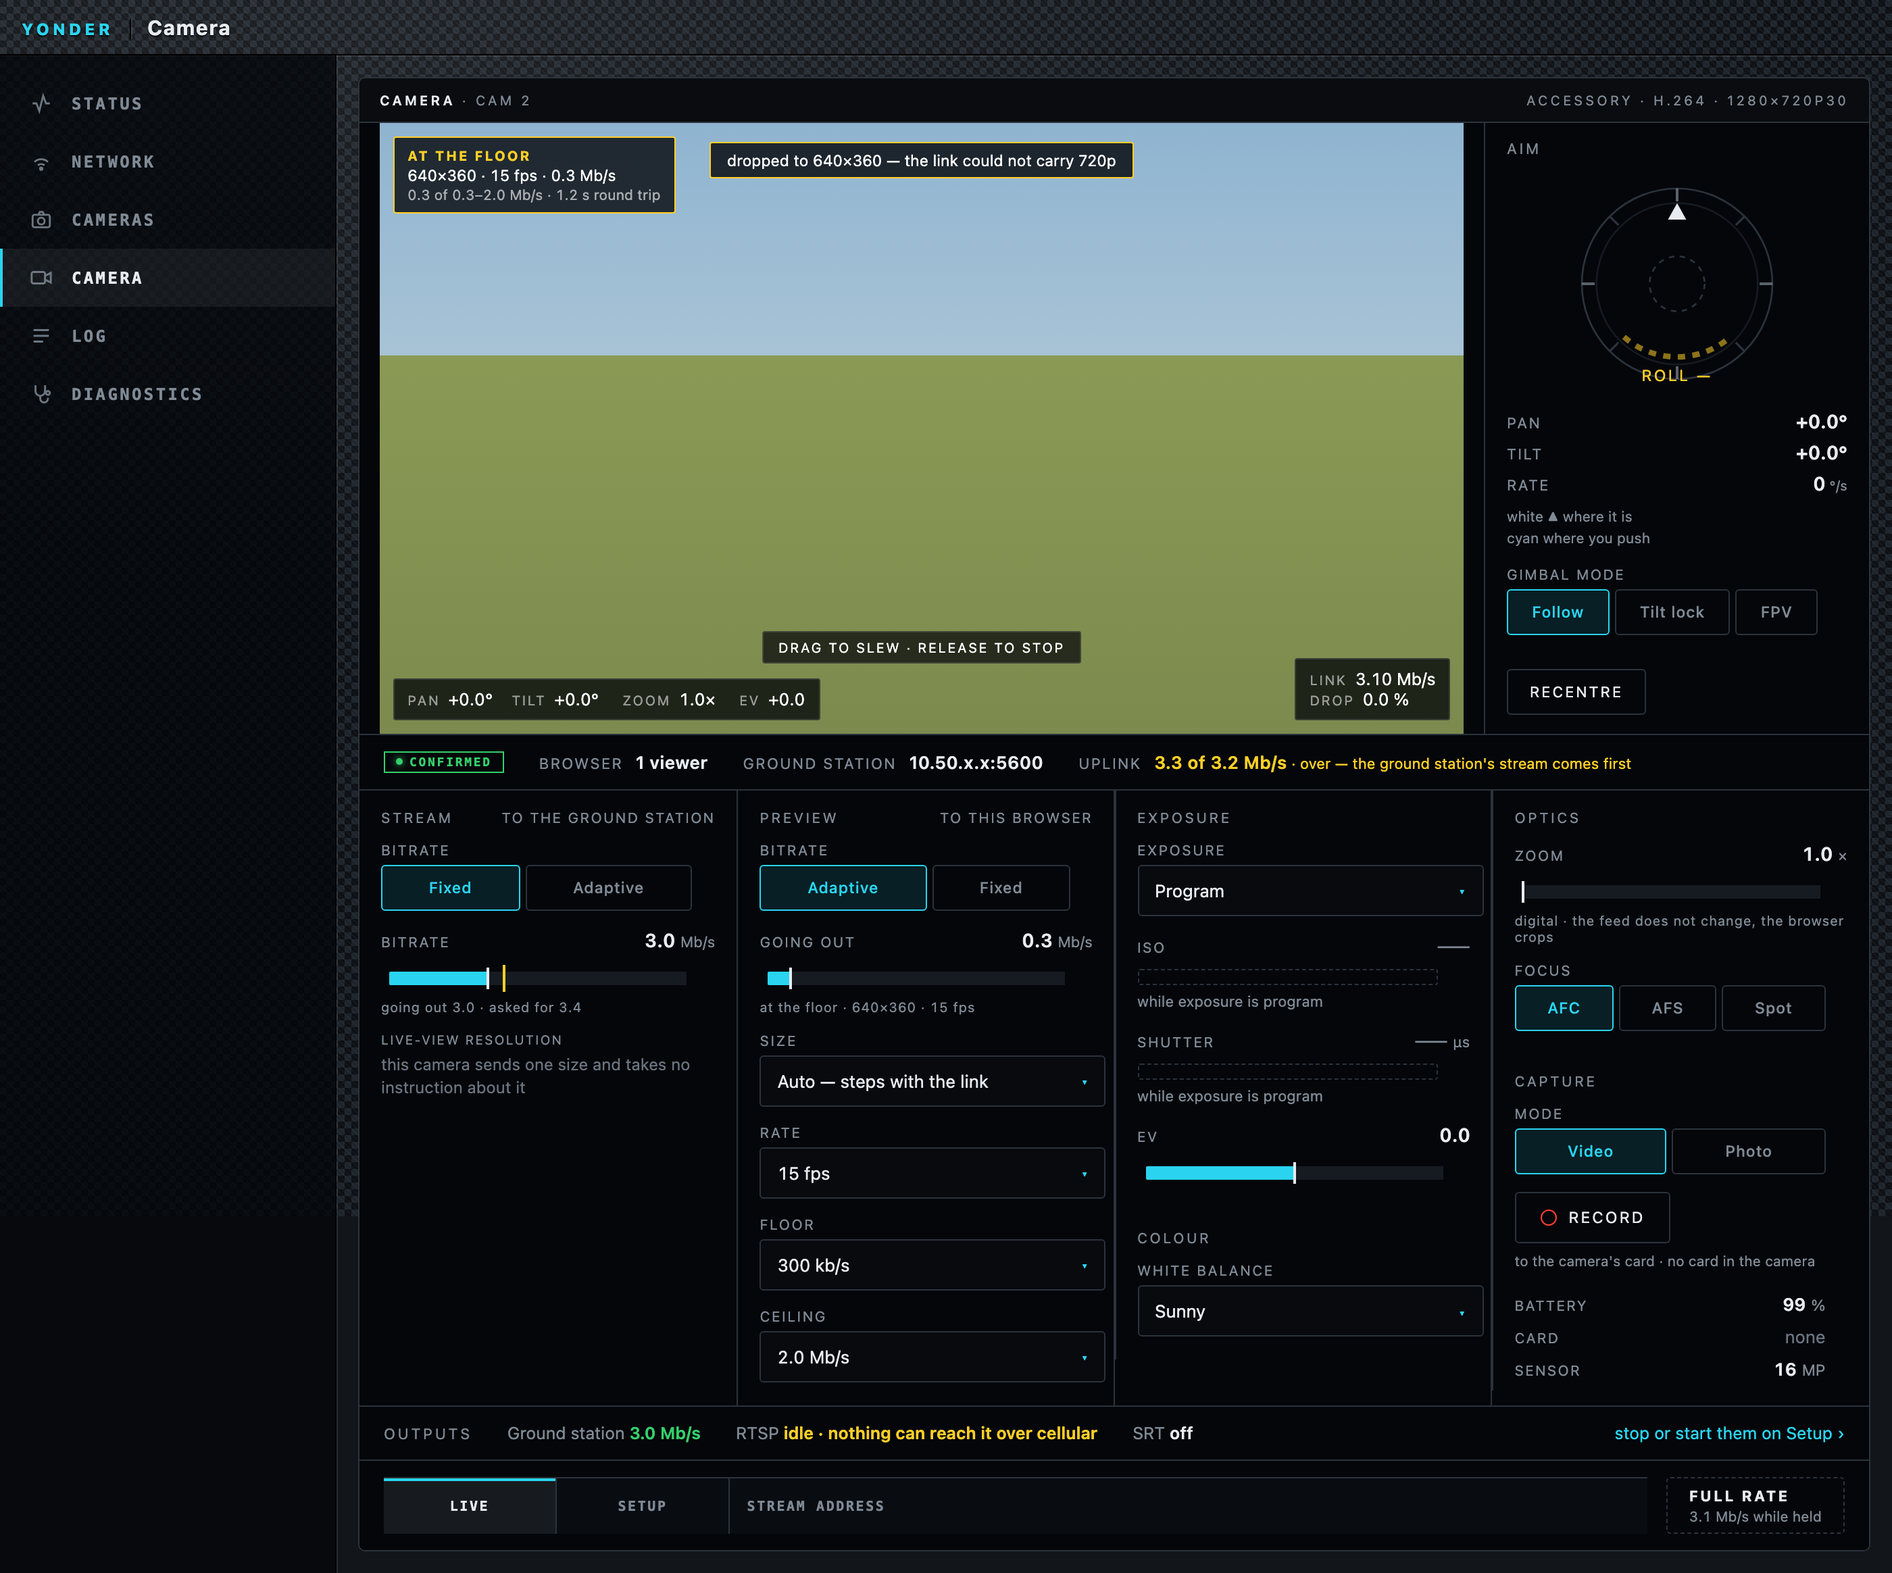
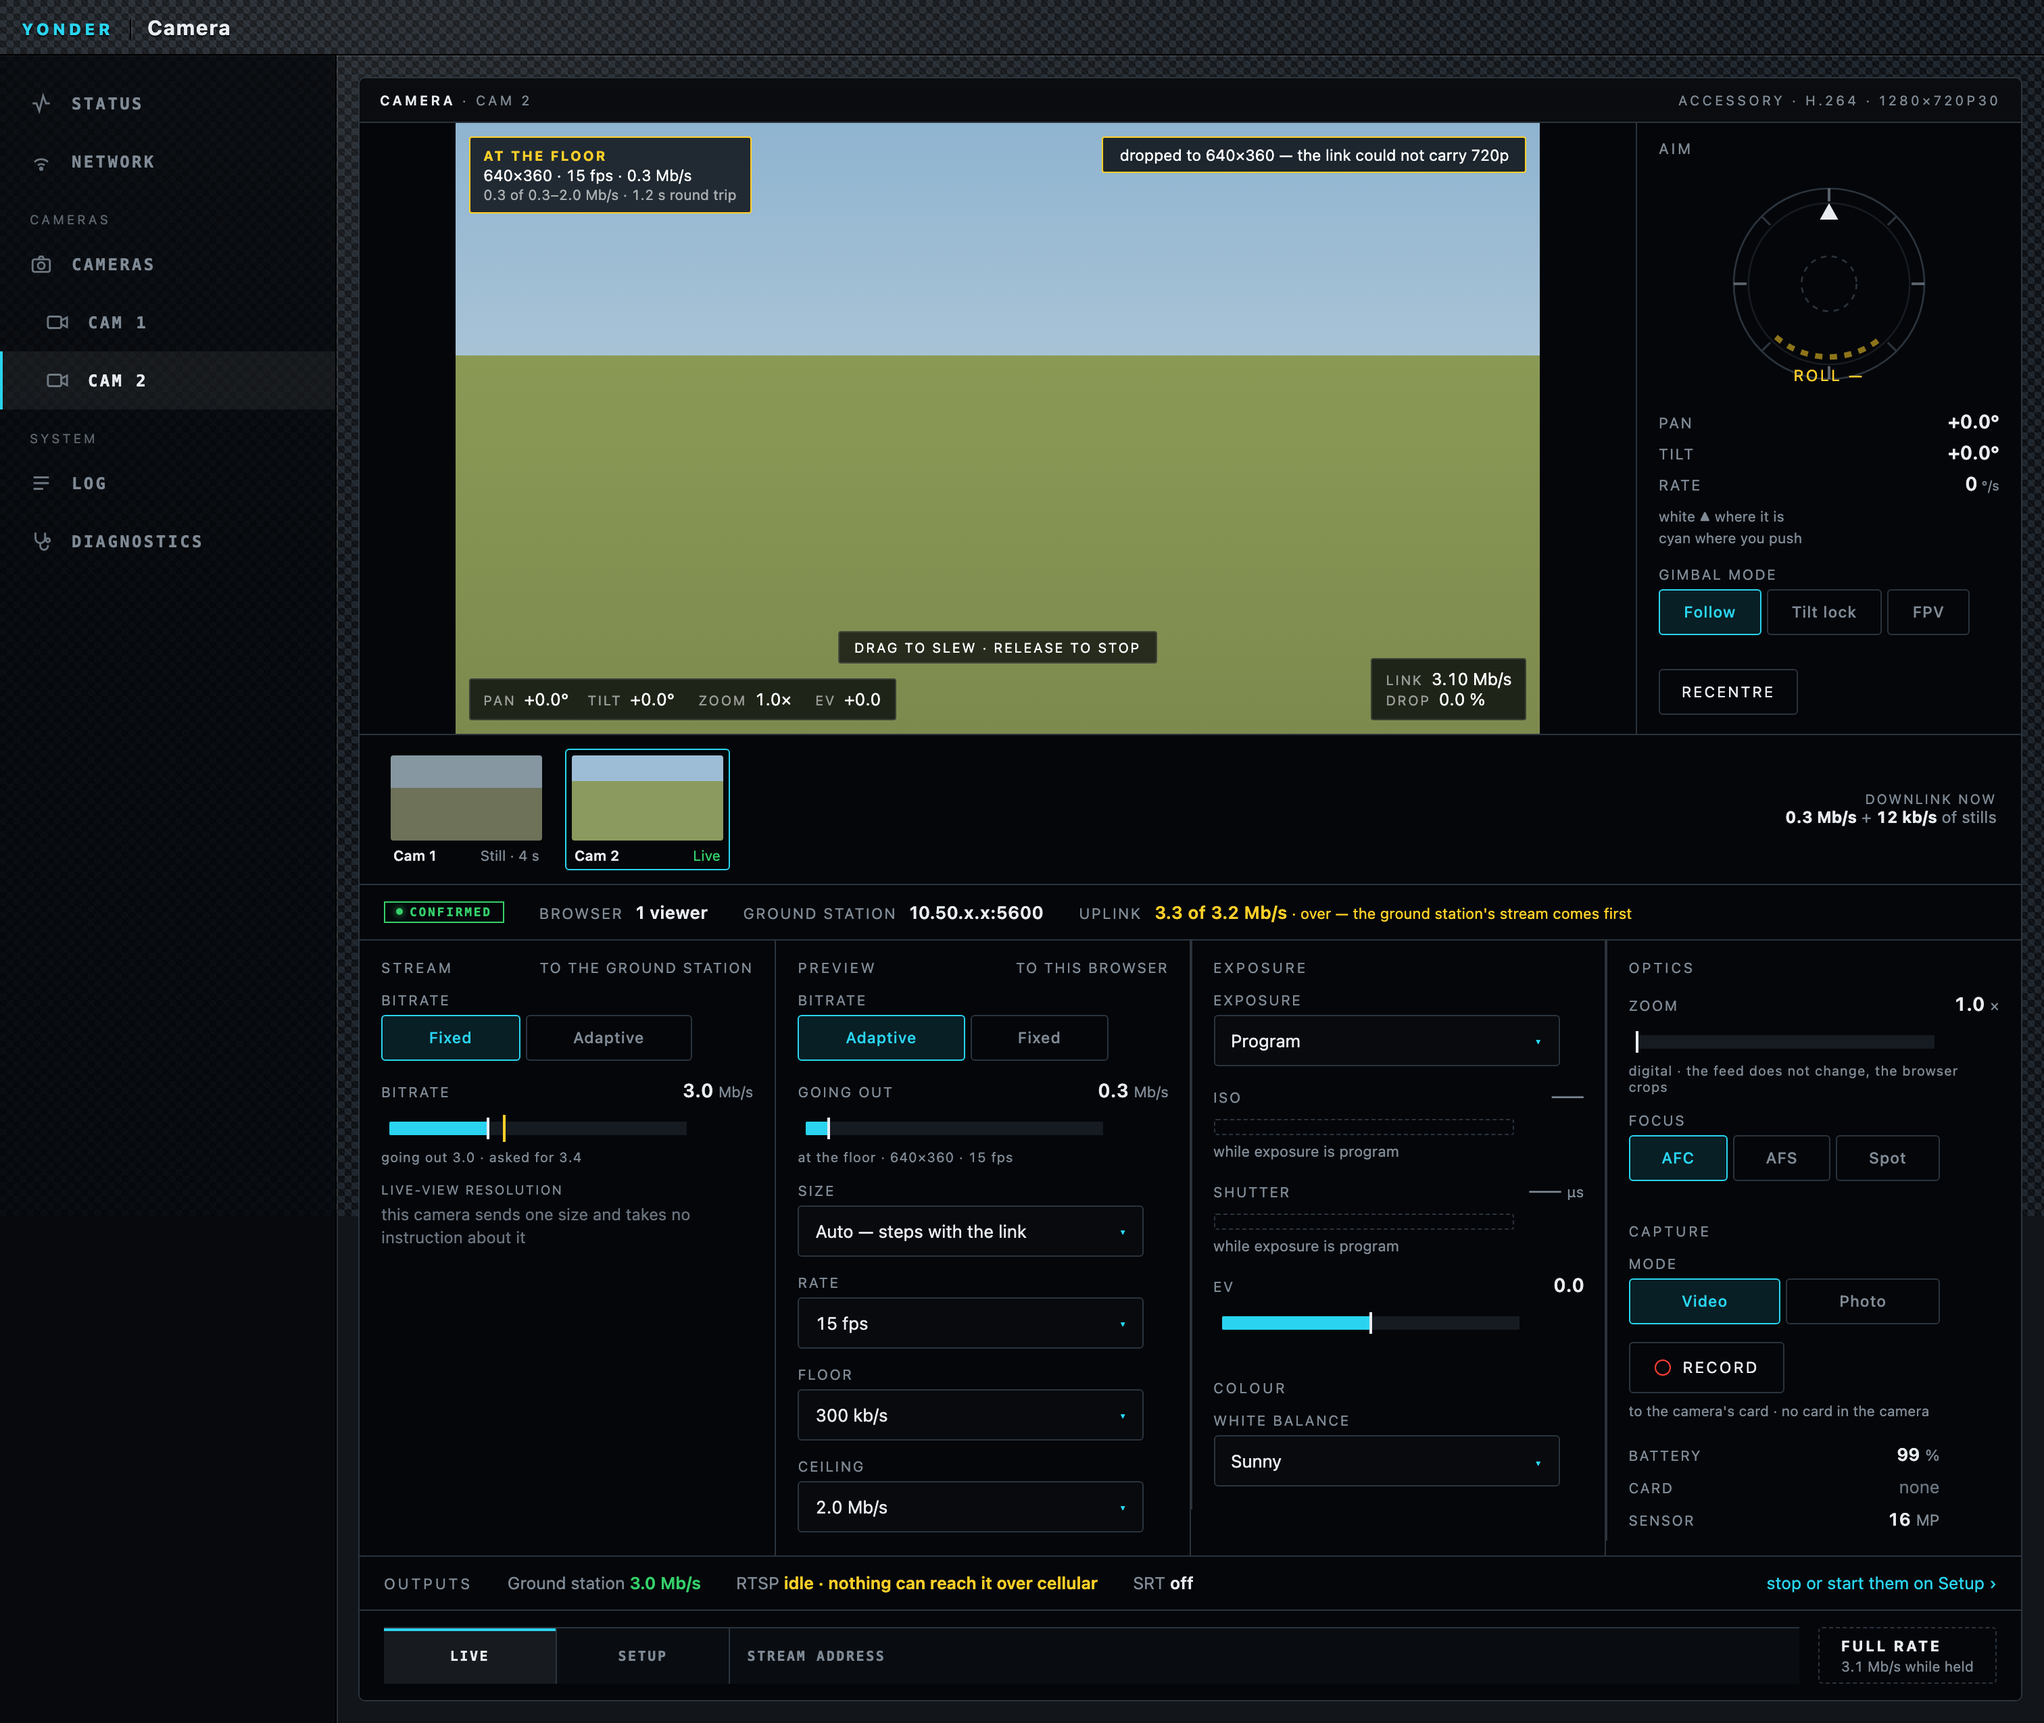
docs(console): one page per camera, and the strip that shows the others
Navigation is built from detected hardware: a Cameras section in the
sidebar with one entry per camera the probe found. Under the picture, the
other cameras as periodic stills with the cost of all of it stated, and one
press to switch — multi-camera-v2.html option 1, R-UI-03.

The strip's uplink capacity now follows the link rather than sitting at a
constant, so an adaptive preview on a healthy link no longer reads as
oversubscribed (R-VID-11).

diff --git a/docs/console/design/instrument-library/gallery/main.js b/docs/console/design/instrument-library/gallery/main.js
@@ -35,8 +35,9 @@ const REJECTED = [
 const App = defineComponent({
   setup () {
     const theme = ref("night");
-    const camera = ref("elp");
-    const page = ref("camera-live");
+    const page = ref("camera:elp");
+    const setup = ref(false);
+    const camera = { get value () { return page.value.startsWith("camera:") ? page.value.slice(7) : "elp"; } };
     const unproven = ref(false);
     const link = ref("good");
     const setTheme = (t) => {
@@ -51,12 +52,11 @@ const App = defineComponent({
       document.documentElement.setAttribute("data-theme", t);
     };
     setTheme("night");
-    window.addEventListener("yonder-go", (e) => { page.value = e.detail; });
+    window.addEventListener("yonder-mode", (e) => { setup.value = e.detail === "setup"; });
 
-    const TITLES = {
-      "cameras": "Cameras", "camera-live": "Camera", "camera-setup": "Camera",
-      "status": "Status", "network": "Network", "log": "Log", "diagnostics": "Diagnostics",
-    };
+    const CAMS = [{ id: "elp", name: "Cam 1" }, { id: "pocket2", name: "Cam 2" }];
+    const TITLES = { cameras: "Cameras", status: "Status", network: "Network", log: "Log", diagnostics: "Diagnostics" };
+    const title = () => page.value.startsWith("camera:") ? "Camera" : (TITLES[page.value] ?? "");
 
     return () => h("div", { class: "g-root" }, [
       h("div", { class: "g-bar" }, [
@@ -64,16 +64,8 @@ const App = defineComponent({
         h("div", { class: "g-bar__c" }, [
           h("div", { class: "g-switch" }, ["night", "day"].map((t) =>
             h("button", { class: { on: theme.value === t }, onClick: () => setTheme(t) }, t))),
-          h("div", { class: "g-switch" }, [
-            ["cameras", "Cameras"], ["camera-live", "Camera · Live"], ["camera-setup", "Camera · Setup"],
-          ].map(([k, lbl]) => h("button", {
-            class: { on: page.value === k }, onClick: () => { page.value = k; },
-          }, lbl))),
-          h("div", { class: "g-switch" }, [
-            ["elp", "ELP — aim advertised"], ["pocket2", "Pocket 2 — aim live"],
-          ].map(([k, lbl]) => h("button", {
-            class: { on: camera.value === k }, onClick: () => { camera.value = k; },
-          }, lbl))),
+          h("div", { class: "g-switch" }, [["live", "Live"], ["setup", "Setup"]].map(([k, lbl]) =>
+            h("button", { class: { on: setup.value === (k === "setup") }, onClick: () => { setup.value = k === "setup"; } }, lbl))),
           h("div", { class: "g-switch" }, [["good", "link good"], ["poor", "link poor"], ["lost", "link lost"]].map(([k, lbl]) =>
             h("button", { class: { on: link.value === k }, onClick: () => { link.value = k; } }, lbl))),
           h("div", { class: "g-switch" }, [h("button", {
@@ -82,12 +74,11 @@ const App = defineComponent({
         ]),
       ]),
       h(Shell, {
-        page: page.value.startsWith("camera-") && page.value !== "cameras" ? "camera-live" : page.value,
-        title: TITLES[page.value] ?? "",
-        onGo: (p) => { page.value = p === "camera-live" ? "camera-live" : p; },
+        page: page.value, title: title(), cameras: CAMS,
+        onGo: (p) => { page.value = p; },
       }, () => page.value === "cameras"
         ? [
-            h(Index, { cameras: CAMERAS, rejected: REJECTED, onOpen: () => { page.value = "camera-live"; } }),
+            h(Index, { cameras: CAMERAS, rejected: REJECTED, onOpen: (id) => { page.value = "camera:" + (id === "cam0" ? "elp" : "pocket2"); } }),
             h("div", { class: "d-panel", style: "margin-top:16px" }, [
               h("div", { class: "d-display d-two" }, [
                 h("div", { class: "d-half" }, [
@@ -111,12 +102,13 @@ const App = defineComponent({
               ] } })]),
             ]),
           ]
-        : [h(DraftDeck, {
-            key: camera.value + page.value,
+        : page.value.startsWith("camera:") ? [h(DraftDeck, {
+            key: camera.value + (setup.value ? "setup" : "live"),
             theme: theme.value, camera: camera.value,
-            mode: page.value === "camera-setup" ? "setup" : "live",
+            mode: setup.value ? "setup" : "live",
             showUnproven: unproven.value, link: link.value,
-          })]),
+            cameras: CAMS, onGo: (p) => { page.value = p; },
+          })] : [h("div", { class: "g-blank" }, TITLES[page.value] + " — not part of this mockup")]),
     ]);
   },
 });
@@ -128,8 +120,8 @@ app.provide("$dataTracker", () => {});
 app.provide("$socket", { on () {}, off () {},
   emit (event, id, msg) {
     if (event !== "widget-action") return;
-    const go = { live: "camera-live", setup: "camera-setup" }[msg?.payload];
-    if (go) window.dispatchEvent(new CustomEvent("yonder-go", { detail: go }));
+    if (msg?.payload === "live" || msg?.payload === "setup")
+      window.dispatchEvent(new CustomEvent("yonder-mode", { detail: msg.payload }));
   } });
 app
   .mixin({ computed: { $store: () => store } })

diff --git a/docs/console/design/instrument-library/gallery/deck.js b/docs/console/design/instrument-library/gallery/deck.js
@@ -33,7 +33,9 @@ const COLUMNS = [
 export const DraftDeck = defineComponent({
   name: "DraftDeck",
   props: { camera: { type: String, default: "elp" }, mode: { type: String, default: "live" },
-           showUnproven: { type: Boolean, default: false }, link: { type: String, default: "good" } },
+           showUnproven: { type: Boolean, default: false }, link: { type: String, default: "good" },
+           cameras: { type: Array, default: () => [] } },
+  emits: ["go"],
   setup (props) {
     const cam = props.camera === "pocket2" ? POCKET2 : ELP;
     const v = reactive(Object.fromEntries(
@@ -68,9 +70,12 @@ export const DraftDeck = defineComponent({
       return { tone: "label", head: "ADAPTIVE", size: "1280×720", rate: Number(v.previewRate), mbps: Math.min(ceil, 1.8),
         detail: `${Math.min(ceil, 1.8).toFixed(1)} of ${floor.toFixed(1)}–${ceil.toFixed(1)} Mb/s`, step: "" };
     },
+    // Measured capacity of the path the encodes leave by (R-VID-11). The
+    // harness moves it with the link switch; the daemon will measure it.
     uplink () {
+      const cap = { good: 5.0, poor: 3.2, lost: 0.5 }[this.link] ?? 5.0;
       const total = this.bitrate + this.preview.mbps;
-      return { total, cap: 3.2, over: total > 3.2 };
+      return { total, cap, over: total > cap };
     },
   },
   methods: {
@@ -165,6 +170,23 @@ export const DraftDeck = defineComponent({
       onStop: () => { this.aim.slewPan = 0; this.aim.slewTilt = 0; },
     });
 
+    // The other cameras, as periodic stills, so they can be seen without paying
+    // for their video; one press switches. The cost of all of it, stated.
+    const thumbs = this.cameras.length > 1 ? h("div", { class: "d-thumbs" }, [
+      ...this.cameras.map((c) => {
+        const on = c.id === this.camera;
+        return h("button", { type: "button", class: ["d-thumb", { on }],
+          onClick: () => { if (!on) this.$emit("go", "camera:" + c.id); } }, [
+          h("span", { class: ["d-thumb__pic", c.id === "pocket2" ? "tele" : ""] }),
+          h("span", { class: "d-thumb__tag" }, [h("b", c.name), h("em", on ? "Live" : "Still · 4 s")]),
+        ]);
+      }),
+      h("div", { class: "d-thumbs__cost" }, [
+        h("em", "Downlink now"),
+        h("span", [h("b", `${this.preview.mbps.toFixed(1)} Mb/s`), " + ", h("b", "12 kb/s"), h("em", " of stills")]),
+      ]),
+    ]) : null;
+
     const strip = h("div", { class: "d-strip" }, [
       h(Annunciator, { id: "deck-ann", props: { source: "payload" } }),
       h("span", { class: "d-fact2" }, ["Browser ", h("b", "1 viewer")]),
@@ -248,7 +270,7 @@ export const DraftDeck = defineComponent({
         ? [picture, strip, h("div", { class: "d-cols" }, cols.map((c) => h("div", {}, [c]))), outTable,
            h("div", { class: "d-rail" }, [h(SoftKeys, { id: "deck-keys", props: { passthru: false, keys } })])]
         : [h("div", { class: "d-stage" }, [h("div", { class: "d-stage__pic" }, [picture]), aimPanel]),
-           strip, h("div", { class: "d-cols" }, cols.map((c) => h("div", {}, [c]))), outLine,
+           thumbs, strip, h("div", { class: "d-cols" }, cols.map((c) => h("div", {}, [c]))), outLine,
            h("div", { class: "d-rail d-rail--two" }, [
              h(SoftKeys, { id: "deck-keys", props: { passthru: false, keys } }),
              h("div", { class: ["d-hold", { on: this.fullRate }],

diff --git a/docs/console/design/instrument-library/gallery/DraftShell.vue b/docs/console/design/instrument-library/gallery/DraftShell.vue
@@ -9,12 +9,14 @@
     </header>
     <div class="d-body">
       <nav class="v-navigation-drawer d-nav">
-        <button v-for="p in pages" :key="p.id" type="button"
-                class="v-list-item d-nav__i" :class="{ 'v-list-item--active': p.id === page }"
-                @click="$emit('go', p.id)">
-          <span class="d-nav__ico" v-html="p.icon" />
-          <span class="v-list-item-title">{{ p.label }}</span>
-        </button>
+        <template v-for="p in pages" :key="p.id">
+          <div v-if="p.section" class="d-nav__sect">{{ p.section }}</div>
+          <button type="button" class="v-list-item d-nav__i" :class="{ 'v-list-item--active': p.id === page, sub: p.sub }"
+                  @click="$emit('go', p.id)">
+            <span class="d-nav__ico" v-html="p.icon" />
+            <span class="v-list-item-title">{{ p.label }}</span>
+          </button>
+        </template>
       </nav>
       <main class="d-main"><slot /></main>
     </div>
@@ -31,16 +33,23 @@ const I = {
 };
 export default {
   name: 'DraftShell',
-  props: { page: { type: String, default: 'camera-live' }, title: { type: String, default: '' } },
+  props: { page: { type: String, default: 'camera-live' }, title: { type: String, default: '' },
+           cameras: { type: Array, default: () => [] } },
   emits: ['go'],
-  data: () => ({ pages: [
-    { id: 'status', label: 'Status', icon: I.status },
-    { id: 'network', label: 'Network', icon: I.network },
-    { id: 'cameras', label: 'Cameras', icon: I.cameras },
-    { id: 'camera-live', label: 'Camera', icon: I.camera },
-    { id: 'log', label: 'Log', icon: I.log },
-    { id: 'diagnostics', label: 'Diagnostics', icon: I.diag },
-  ] })
+  computed: {
+    // Navigation is built from detected hardware: one entry per camera the
+    // probe found, under the index. Unplug one and its entry is gone (R-UI-03).
+    pages () {
+      return [
+        { id: 'status', label: 'Status', icon: I.status },
+        { id: 'network', label: 'Network', icon: I.network },
+        { id: 'cameras', label: 'Cameras', icon: I.cameras, section: 'Cameras' },
+        ...this.cameras.map((c) => ({ id: 'camera:' + c.id, label: c.name, icon: I.camera, sub: true })),
+        { id: 'log', label: 'Log', icon: I.log, section: 'System' },
+        { id: 'diagnostics', label: 'Diagnostics', icon: I.diag },
+      ]
+    }
+  }
 }
 </script>
 <style scoped>
@@ -53,5 +62,8 @@ export default {
   color: var(--yonder-label,#7f8a95); }
 .d-nav__i:hover { color: var(--yonder-value,#fff); }
 .d-nav__ico { display:flex; opacity:.85; }
+.d-nav__sect { font-size:9.5px; letter-spacing:.2em; text-transform:uppercase; color: var(--yonder-label,#7f8a95);
+  opacity:.7; padding:16px 22px 6px; }
+.d-nav__i.sub { padding-left:34px; }
 .d-main { flex:1; min-width:0; padding:16px; }
 </style>

diff --git a/docs/console/design/instrument-library/gallery/gallery.css b/docs/console/design/instrument-library/gallery/gallery.css
@@ -176,3 +176,24 @@ body { margin:0; background: var(--yonder-background, #0a0c0f); color: var(--yon
 .d-hold span { font-size:10.5px; color: var(--yonder-label,#7f8a95); font-variant-numeric:tabular-nums; }
 .d-hold.on { border-style:solid; border-color: var(--yonder-select,#2ad4f0); }
 .d-hold.on b { color: var(--yonder-select,#2ad4f0); }
+
+/* the other cameras, under the picture */
+.d-thumbs { display:flex; align-items:center; gap:12px; padding:10px 18px;
+  border-top:1px solid var(--yonder-divider,#2b333c); }
+.d-thumb { display:flex; flex-direction:column; gap:5px; padding:4px; background:transparent; border:1px solid transparent;
+  border-radius:3px; cursor:pointer; font:inherit; text-align:left; }
+.d-thumb.on { border-color: var(--yonder-select,#2ad4f0); cursor:default; }
+.d-thumb:not(.on):hover { border-color: var(--yonder-divider,#2b333c); }
+.d-thumb__pic { display:block; width:112px; height:63px; border-radius:2px;
+  background:linear-gradient(#8fb4d0 0 38%, #7d8a4e 38% 100%); }
+.d-thumb:not(.on) .d-thumb__pic { filter:saturate(.5) brightness(.85); }
+.d-thumb__pic.tele { background:linear-gradient(#9dbdd6 0 30%, #8b9a5e 30% 100%); }
+.d-thumb__tag { display:flex; justify-content:space-between; gap:8px; font-size:10.5px; padding:0 2px; }
+.d-thumb__tag b { color: var(--yonder-value,#fff); font-weight:600; }
+.d-thumb__tag em { font-style:normal; color: var(--yonder-label,#7f8a95); }
+.d-thumb.on .d-thumb__tag em { color: var(--yonder-good,#35d06a); }
+.d-thumbs__cost { margin-left:auto; text-align:right; font-size:12px; color: var(--yonder-label,#7f8a95); }
+.d-thumbs__cost em { font-style:normal; font-size:10px; letter-spacing:.12em; text-transform:uppercase; display:block; }
+.d-thumbs__cost b { color: var(--yonder-value,#fff); font-variant-numeric:tabular-nums; }
+.d-thumbs__cost span em { display:inline; letter-spacing:0; text-transform:none; font-size:12px; }
+.g-blank { padding:40px; color: var(--yonder-label,#7f8a95); font-size:13px; }

diff --git a/docs/console/design/instrument-library/README.md b/docs/console/design/instrument-library/README.md
@@ -77,6 +77,12 @@ predates these and must be brought up to them:
 - **`FULL RATE` is back**, a hold-key at the right of the rail (R-VID-13).
 - **The strip's uplink counts both encodes** and turns to caution when over:
   `3.3 of 3.2 Mb/s · over — the ground station's stream comes first` (R-VID-11).
+- **One sidebar entry per camera** under a `Cameras` heading — `Cam 1`,
+  `Cam 2` — and a **strip under the picture** with the other cameras as
+  periodic stills and the cost of all of it (`multi-camera-v2.html` option 1,
+  R-UI-03). A press on a thumbnail switches; the sidebar follows.
+- **Capacity follows the link** in the strip's uplink reading, and the reading
+  says when the encodes exceed it (R-VID-11).
 - The harness has a **link** switch — good / poor / lost — so the states can
   be seen. **Nothing measures the link yet**: R-VID-07 is unbuilt, and the
   round-trip figure is typed in.
